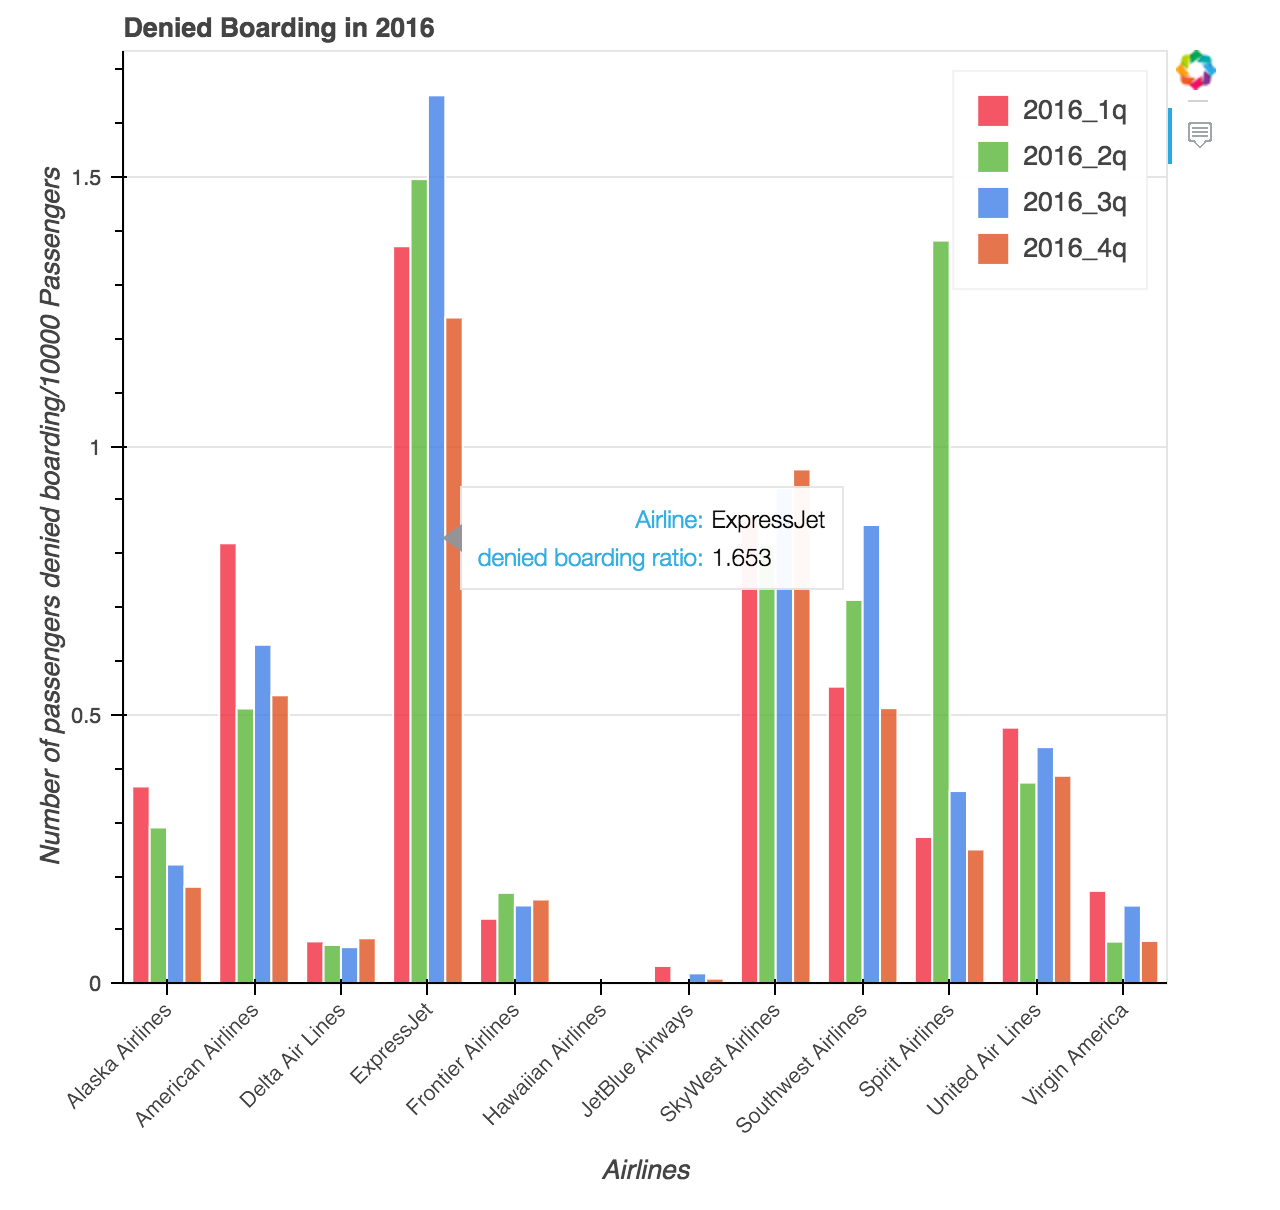
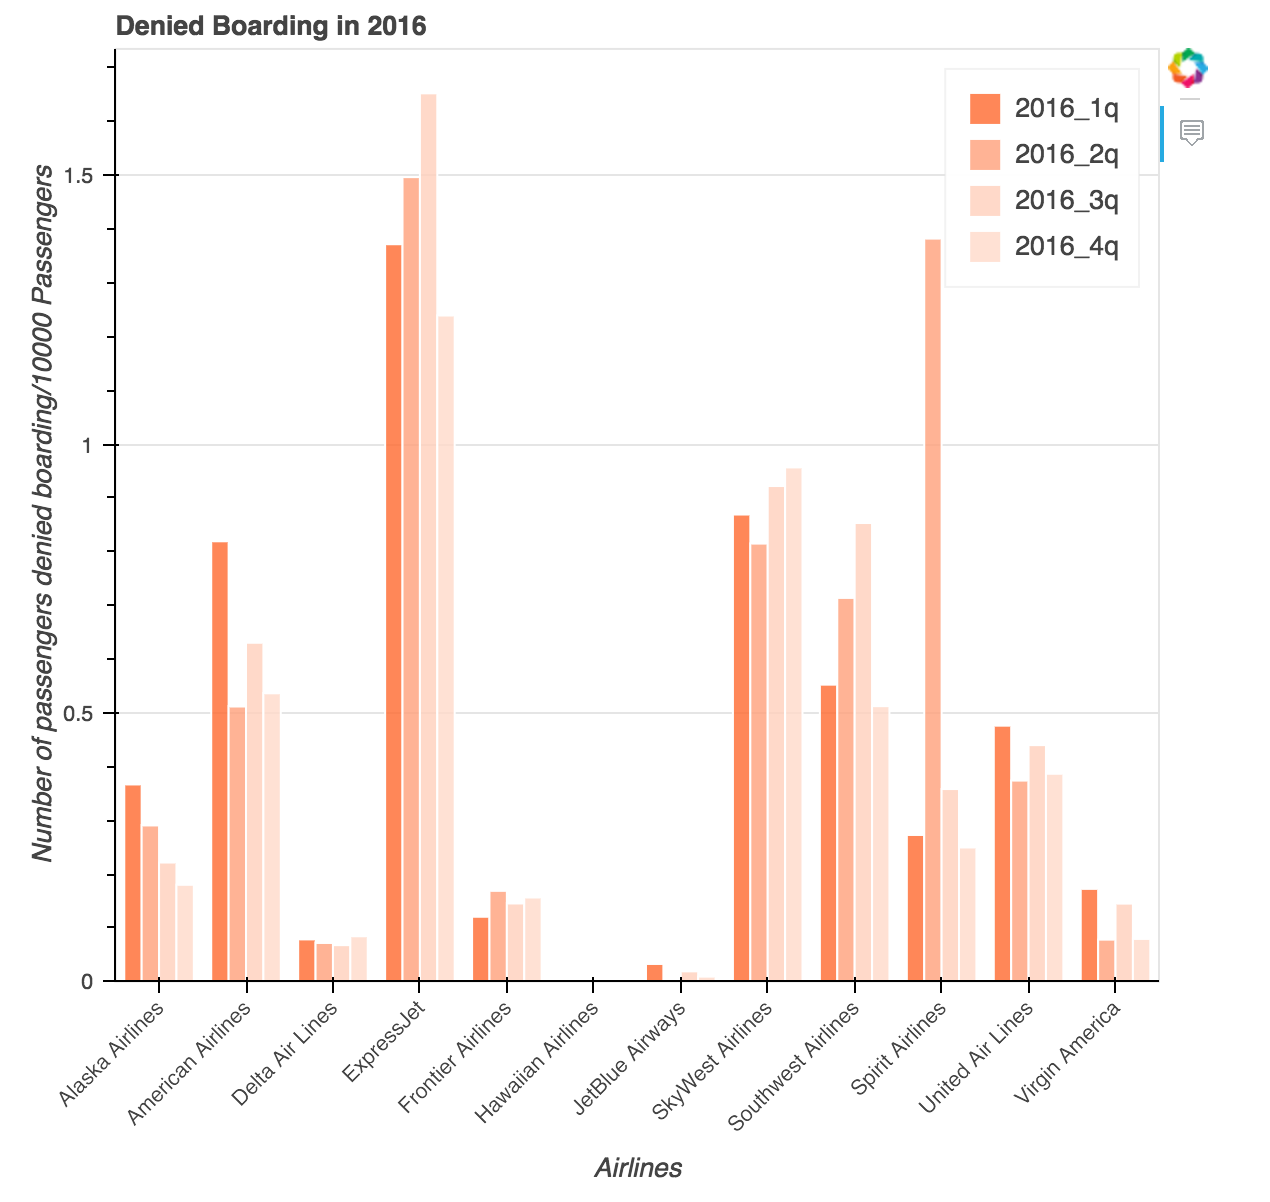
WIP: Fix language in Flight denial post

diff --git a/_posts/2017-04-20-denied-boarding.md b/_posts/2017-04-20-denied-boarding.md
@@ -13,47 +13,52 @@ read_time: 10
 
 ## โฆษณาเล็กน้อยก่อนเริ่มโพสต์
 
-พวกเรา tupleblog team กำลังจะจัด Python/R Data Science Meetup ที่ Hangar, Incubator space ของ DTAC กันในต้นเดือนสิงหาคมนี้!
-เรามีพี่ต้า อดีต data scientist ที่ Facebook และเจ้าของโพสต์ "ส่องข้อมูลการปฏิเสธการขึ้นเครื่อง (Denied Boardings) ในอเมริกา"
-ที่เราจะมาลองทำตามกันในโพสต์นี้ มาเป็น keynote speaker กันในครั้งแรก
+พวกเรา **tupleblog team** กำลังจะจัด Python/R Data Science Meetup ที่ [Hangar](https://www.facebook.com/HANGARCoworkingSpace/), Incubator space ของ DTAC กันในต้นเดือนสิงหาคมนี้ (ประมาณ 3 เดือนเท่านั้น)! ตอนนี้เราได้พี่ต้า อดีต data scientist ที่ Facebook และเจ้าของโพสต์ ["ส่องข้อมูลการปฏิเสธการขึ้นเครื่อง (Denied Boardings) ในอเมริกา"](https://medium.com/skooldio/%E0%B8%AA%E0%B9%88%E0%B8%AD%E0%B8%87%E0%B8%82%E0%B9%89%E0%B8%AD%E0%B8%A1%E0%B8%B9%E0%B8%A5%E0%B8%81%E0%B8%B2%E0%B8%A3%E0%B8%9B%E0%B8%8F%E0%B8%B4%E0%B9%80%E0%B8%AA%E0%B8%98%E0%B8%81%E0%B8%B2%E0%B8%A3%E0%B8%82%E0%B8%B6%E0%B9%89%E0%B8%99%E0%B9%80%E0%B8%84%E0%B8%A3%E0%B8%B7%E0%B9%88%E0%B8%AD%E0%B8%87-denied-boardings-%E0%B9%83%E0%B8%99%E0%B8%AD%E0%B9%80%E0%B8%A1%E0%B8%A3%E0%B8%B4%E0%B8%81%E0%B8%B2-8fcc0b0f7c05)
+ที่เราจะมาลองเขียนพล็อตของเค้าตามกันในโพสต์นี้มาเป็น keynote speaker ในงานด้วย น่าตื่นเต้นมากๆ
 
-นอกจากนั้นก็ยังมี speaker เจ๋งๆอีกหลายคน ไว้คอยติดตามกันต่อไป
-ส่วนรายอะเอียดของงานกับการรับสมัครเราจะมาบอกกันอีกทีในอีกเดือนข้างหน้า คอยติดตามกันเร็วๆนี้นะ
+นอกจากพี่ต้าแล้วก็ยังมี speakers เจ๋งๆอีกหลายคน ไว้คอยติดตามกันต่อไป เราจะค่อยๆออกมา
+ส่วนรายละเอียดของงานกับการรับสมัครเราจะมาบอกกันอีกทีในอีกเดือนข้างหน้า คอยติดตามกันเร็วๆนี้นะ
 
-
-ไม่ได้มีแค่ speaker เท่านั้น เรายังมีหนังสือจาก O'Reilly พร้อมลายเซ็นต์ได้แก่ Python Data Science Handbook ของ
+ไม่ได้มีแค่ speaker เท่านั้น เรายังมีหนังสือจาก O'Reilly พร้อมลายเซ็นต์ของผู้เขียนสองเล่ม ได้แก่ Python Data Science Handbook ของ
 Jake VanderPlas และ Data Science from Scratch: First Principles with Python ของ Joel Grus
-ที่จะสุ่มแจกให้คนที่มา Meetup ครั้งแรกอีกด้วย!
+ที่จะสุ่มแจกให้คนที่มาร่วม Meetup ครั้งแรกอีกด้วย!
 
-เท่านี้แหละ พูดให้ตื่นเต้นกันไว้ก่อน ไปเริ่มเขียนโค้ดกันก่อนแล้วกัน
+เท่านี้แหละ พูดให้ตื่นเต้นกันไว้ก่อน รายละเอียดจะมาบอกกันในไม่ช้า ฝากติดตามและแชร์ฮะ ตอนนี้เราไปเริ่มเขียนโค้ดกันก่อนแล้วกัน
 
 ## เกริ่นนำ
 
-สำหรับโพสต์นี้เราจะมาว่ากันด้วยการพล็อตเป็นหลัก เราจะพล็อตแบบ interactive โดยใช้ไลบรารี่จาก Python
-ที่ชื่อว่า Bokeh กัน
+สำหรับโพสต์นี้เราจะมาว่ากันด้วยการพล็อตเป็นหลัก เนื่องจากคราวที่แล้วอาจจะใส่เนื้อหาเยอะไปหน่อย
+เราเลือกที่จะพล็อตกันแบบ interactive โดยใช้ไลบรารี่จาก Python ที่ชื่อว่า Bokeh กัน (คล้ายกับ `matplotlib` ไลบรารี่)
 
-ตัวอย่างของ data ที่จะใช้วันนี้เป็น data ของสายการบิน (ที่ United เป็นข่าวใหญ่ลากลุงออกมาจากเครื่องบิน)
-เราจะมาดูกันว่าอัตราการโดนไล่จากออกนั้นสูงแค่ไหนสำหรับแต่ละสายการบิน เราจะมาลองพล็อตเล่นๆโดยใช้ Bokeh
-ตามโพสต์ต้นฉบับของพี่ต้ากัน อ่านได้เลย[ที่นี่](https://medium.com/skooldio/%E0%B8%AA%E0%B9%88%E0%B8%AD%E0%B8%87%E0%B8%82%E0%B9%89%E0%B8%AD%E0%B8%A1%E0%B8%B9%E0%B8%A5%E0%B8%81%E0%B8%B2%E0%B8%A3%E0%B8%9B%E0%B8%8F%E0%B8%B4%E0%B9%80%E0%B8%AA%E0%B8%98%E0%B8%81%E0%B8%B2%E0%B8%A3%E0%B8%82%E0%B8%B6%E0%B9%89%E0%B8%99%E0%B9%80%E0%B8%84%E0%B8%A3%E0%B8%B7%E0%B9%88%E0%B8%AD%E0%B8%87-denied-boardings-%E0%B9%83%E0%B8%99%E0%B8%AD%E0%B9%80%E0%B8%A1%E0%B8%A3%E0%B8%B4%E0%B8%81%E0%B8%B2-8fcc0b0f7c05)
+ตัวอย่างของ data ที่จะใช้วันนี้เป็น data ของผู้โดยสารที่ขึ้นสายการบินต่างๆในอเมริกา อย่างที่รู้กันจากข่าวใหญ่ไม่นานมานี้ ที่ผู้โดยสารสายการบิน
+United โดนลากออกมาจากเครื่องบินหลังจาก board ไปแล้ว เราจะมาดูกันว่าอัตราการโดนไล่ลงจากเครื่องหรือห้ามขึ้นเครื่องนั้นสูงแค่ไหนสำหรับแต่ละสายการบิน
 
-ในโพสต์ของพี่ต้าค่อนข้างอธิบายรายละเอียดเกือบทั้งหมดแล้วเกี่ยวกับหน้าตาของข้อมูล เราจะไม่อธิบายในที่นี้
-แค่จะมาลอง clean data แบบสบายๆและพล็อตเป็นหลัก
+เราจะมาพล็อตข้อมูลเหล่านี้โดยใช้ไลบรารี่ Bokeh ตามโพสต์ต้นฉบับของพี่ต้ากัน โพสต์ต้นฉบับสามารถไปตามอ่านกันได้เลย[ที่นี่](https://medium.com/skooldio/%E0%B8%AA%E0%B9%88%E0%B8%AD%E0%B8%87%E0%B8%82%E0%B9%89%E0%B8%AD%E0%B8%A1%E0%B8%B9%E0%B8%A5%E0%B8%81%E0%B8%B2%E0%B8%A3%E0%B8%9B%E0%B8%8F%E0%B8%B4%E0%B9%80%E0%B8%AA%E0%B8%98%E0%B8%81%E0%B8%B2%E0%B8%A3%E0%B8%82%E0%B8%B6%E0%B9%89%E0%B8%99%E0%B9%80%E0%B8%84%E0%B8%A3%E0%B8%B7%E0%B9%88%E0%B8%AD%E0%B8%87-denied-boardings-%E0%B9%83%E0%B8%99%E0%B8%AD%E0%B9%80%E0%B8%A1%E0%B8%A3%E0%B8%B4%E0%B8%81%E0%B8%B2-8fcc0b0f7c05)
 
-## ข้อมูล
+ในโพสต์ของพี่ต้าค่อนข้างอธิบายรายละเอียดเกือบทั้งหมดแล้วเกี่ยวกับหน้าตาของข้อมูล ความต่างนิดเดียวคือ analysis ใช้ R เป็นหลัก
+เราจะไม่อธิบายรายละเอียดมากในที่นี้ แต่จะเน้นทักษะเบื้องต้นของการ clean data และพล็อตเป็นหลักนะ
 
-ก่อนอื่นต้องเกริ่นว่า code ที่ใช้ในการเก็บ data และพล็อตอยู่บน Github repository ซึ่งใช้ชื่อว่า
+<figure><center>
+  <img width="auto" src="/images/post/denied_boarding/table.png" data-action="zoom"/>
+</center></figure>
+
+- ข้อมูลในหลักที่ 3 คือจำนวนผู้โดยสารที่โดนไล่ลงจากเครื่องทั้งหมด
+- ข้อมูลในหลักที่ 4 คือจำนวนผู้โดยสารที่โดนไล่ลงจากเครื่องและได้รับเงินคืน
+- ข้อมูลในหลักที่ 7 คือจำนวนผู้โดยสารที่ขึ้นเครื่องทั้งหมด
+
+
+## โหลดข้อมูล
+
+ก่อนอื่นต้องเกริ่นว่า code ที่ใช้ในการเก็บ data และการสร้างพล็อตทั้งหมดอยู่บน Github repository ซึ่งใช้ชื่อว่า
 [tupleblog/tuple_code](https://github.com/tupleblog/tuple_code/tree/master/denied_boarding)
 ในโพสต์หน้าๆ เราจะเริ่มเอาโค้ดมาใส่ใน [tuple_code](https://github.com/tupleblog/tuple_code/) เป็นหลัก
 
-ก่อนจะลองกันเราโหลด CSV file มาก่อนจาก repository เลย ชื่อไฟล์ว่า `denied_boarding.csv`
-ส่วนที่มาของ data นั้น เราใช้ `BeaitifulSoup` ในการเก็บข้อมูลมาจากเว็บ [Bureau of Transportation Statistics](https://www.rita.dot.gov/bts/sites/rita.dot.gov.bts/files/subject_areas/airline_information/passengers_denied_confirmed_space_report/2016/index.html) ส่วนสคริปที่ใช้เก็บข้อมูลชื่อว่า [download_report.py](https://github.com/tupleblog/tuple_code/blob/master/denied_boarding/download_report.py)
+ก่อนจะเริ่มเขียนกัน เราต้องโหลด CSV file จาก repository มาก่อน ชื่อไฟล์ว่า `denied_boarding.csv`
+ส่วนที่มาของ data คราวๆคือเราใช้ `BeaitifulSoup` ในการเก็บข้อมูลมาจากเว็บ [Bureau of Transportation Statistics](https://www.rita.dot.gov/bts/sites/rita.dot.gov.bts/files/subject_areas/airline_information/passengers_denied_confirmed_space_report/2016/index.html) สคริปเต็มๆที่ใช้เก็บข้อมูลชื่อว่า [`download_report.py`](https://github.com/tupleblog/tuple_code/blob/master/denied_boarding/download_report.py)
 ลองไปดูรายละเอียดกันได้
 
-
-## Bokeh plot
-
-ก่อนอื่นเลยเราจะมาโหลด data ไปในรูปของ dataframe ก่อนโดยใช้ไลบรารี่ชื่อว่า `pandas`
-ในแต่ละหลักของข้อมูลยังไม่ได้เป็น `int` จึงต้องลบ `,` กับ `$` เล็กน้อยโดยใช้ `replace`
+หลังจากโหลด data มาแล้ว เราสามารถอ่านไปใน Python ไปในรูปของ Pandas dataframe (คล้ายกับ dataframe ใน R)
+ก่อนโดยใช้ไลบรารี่ชื่อว่า `pandas` จะเห็นว่าในแต่ละหลักของข้อมูลยังไม่ได้เป็นจำนวนเต็มหรือ `int` จึงต้องแทนที่ `,` กับ `$` เล็กน้อยโดยใช้ `replace`
 หน้าตาของโค้ดเป็นไปตามด้านล่าง
 
 ```py
@@ -65,7 +70,7 @@ for col in ['3', '4', '7', '8(a)']:
 df.loc[:, 'denied_boarding_ratio'] = df['4']/df['7'] * 10000 # denied boarding ratio
 ```
 
-หลังจากนั้น เราได้ dataframe ที่พร้อมใช้พล็อตกันละ เรามาพล็อตกันสองอย่าง
+เท่านี้เราก็จะได้ dataframe ที่พร้อมใช้พล็อตกันละ เรามาลองพล็อตกันสองอย่างกันในโพสต์นี้ได้แก่ Bar chart, Scatter Plot
 
 ### Bar Chart
 
@@ -76,6 +81,8 @@ from bokeh.models import HoverTool, ColumnDataSource, LabelSet
 from bokeh.charts import Bar, Scatter
 from bokeh.resources import CDN
 from bokeh.embed import file_html
+from bokeh.charts.attributes import cat, color
+from bokeh.charts.operations import blend
 ```
 
 จากนั้น เนื่องจากเรามีข้อมูลจากหลาย quarter เราจะเลือกมาพล็อตเพียงแค่ quarter เดียวก่อน ใช้คำสั่ง
@@ -105,12 +112,15 @@ output_file = open('bar_plot.html', 'w')
 output_file.write(html)
 ```
 
+พล็อตที่ได้จะถูกเซฟไปที่ไฟล์ชื่อ `bar_plot.html` ซึ่งสามารถเปิดดูได้จากบราวเซอร์ทั่วไปเช่น Google Chrome,
+Safari, Firefox
+
 <figure><center>
   <img width="auto" src="/images/post/denied_boarding/denied_boarding_ratio.png" data-action="zoom"/>
 </center></figure>
 
 
-## Bar Chart Stack
+## Bar Chart Group
 
 นอกจากแค่พล็อตข้อมูลจากควอเตอร์เดียวของปี เรายังสามารถใช้ทริกของ Bokeh ได้เพื่อ `group`
 เวลาใน quarter ต่างๆ แค่เพิ่ม `group="time"` ก็จะพล็อตจำนวนผู้โดยสารที่โดนไล่ออกต่อจำนวนคนขึ้นเครื่องได้แล้ว
@@ -130,6 +140,7 @@ p = Bar(df_q,
         label='CARRIER',
         values='denied_boarding_ratio',
         group="time",
+        color=color(palette=['#ff692e', '#ffa07a', '#ffcfbc', '#ffd9c9'], sort=False),
         tools=[hover],
         legend='top_right',
         title="Denied Boarding in 2016",
@@ -142,6 +153,46 @@ output_file.write(html)
 
 <figure><center>
   <img width="auto" src="/images/post/denied_boarding/denied_boarding_ratio_2016.png" data-action="zoom"/>
+</center></figure>
+
+จะเห็นว่าจำนวนคนที่ถูกห้ามไม่ให้ขึ้นเครื่องต่อจำนวนผู้โดยสารหนึ่งหมื่นคนในปี 2016 แต่ละ quarter
+ค่อนข้างจะคงที่ สายการบินที่แย่ที่สุดก็คือ Express Jet ซึ่งผู้เขียนโพสต์ก็ยังไม่เคยขึ้นเหมือนกัน
+
+
+## Bar Chart Stack
+
+เราจะมาพล็อตกลุ่มของคนที่โดนไล่ลงของแต่ละสายการบินกันบ้าง กลุ่มแรก(สีส้มเข้ม)คือกลุ่มที่ถูกไล่ลงแล้วได้เงินคืน
+ส่วนอีกกลุ่ม(สีส้มอ่อน)คืนกลุ่มที่ถูกไล่ลงแล้วไม่ได้เงินคืน สายการบินที่ให้เงินคืนเป็นหลักน่าจะเป็นตัวเลือกที่ดีกว่า
+
+```py
+# bar plot stacked
+quarters = ['2016_1q', '2016_2q', '2016_3q', '2016_4q']
+df_q = pd.concat([df.query("time=='%s'" % quarter) for quarter in quarters])
+df_q.loc[:, '3-4'] = df_q['3'] - df_q['4']
+
+hover = HoverTool(
+        tooltips=[
+            ('Airline', "@CARRIER"),
+            ("Number of passengers", "@height")
+        ]
+)
+p = Bar(df_q,
+        label='CARRIER',
+        values=blend('4', '3-4', labels_name='denied_total'),
+        stack="denied_total",
+        color=color(palette=['#ffa07a', '#ffd9c9'], sort=False),
+        tools=[hover],
+        legend='top_right',
+        title="Denied Boarding in 2016",
+        xlabel="Airlines", ylabel="Number of passengers denied boarding/10000 Passengers")
+
+html = file_html(p, CDN, "Denied Boarding 2016 Q4")
+output_file = open('bar_plot_stack.html', 'w')
+output_file.write(html)
+```
+
+<figure><center>
+  <img width="auto" src="/images/post/denied_boarding/compensation.png" data-action="zoom"/>
 </center></figure>
 
 
@@ -186,11 +237,14 @@ output_file.write(html)
 การอ่านพล็อตนี้ก็ไม่ยากเลยนะ เราต้องการสายการบินที่มี total boarding สูงแต่มี denied boarding ต่ำ
 ในที่นี้ Delta น่าจะเป็นสายการบินที่ดูน่าบินด้วยมากที่สุด ถ้าไม่อยากโดนเตะลงจากเครื่องเป็นต้น
 
-
-ใครที่ตามไม่ทันในโพสต์นี้หรืออยากลองไปทำกันต่อ สามารถไปดูกันได้ที่ [`bokeh_plot.ipynb`](https://github.com/tupleblog/tuple_code/blob/master/denied_boarding/bokeh_plot.ipynb)
+ใครที่ตามไม่ทันในโพสต์นี้หรืออยากลองไปทำกันต่อ สามารถไปดูกันได้ที่ [`bokeh_plot.ipynb`](https://nbviewer.jupyter.org/github/tupleblog/tuple_code/blob/master/denied_boarding/bokeh_plot.ipynb)
 
 
 ## อารัมภบท
 
-นอกจากโพสต์ของพี่เต้แล้ว เราก็ชอบโพสต์ของ [The Wired](https://www.wired.com/2017/04/united-airlines-overbook-flights-usually-pays-off/)
+นอกจากโพสต์ของพี่ต้าแล้ว เราก็ชอบโพสต์ของ [The Wired](https://www.wired.com/2017/04/united-airlines-overbook-flights-usually-pays-off/)
 ที่อธิบายว่าทำไมสายการบินถึงต้องขายตั๋วเกินลิมิตของเครื่องบิน ลองไปอ่านกันดูนะ
+
+ในไฟล์ที่ให้มาเรามี data อีกหลาย columns ที่ยังไม่ได้ลองใช้กัน ใครว่างๆก็ลองเอาสคริปไปใช้และพล็อตข้อมูลที่สนใจกันได้ตามสะดวก
+
+ตอนนี้ผู้เขียนไม่ไหวละ ขอตัวไปนอนก่อน บัยย
